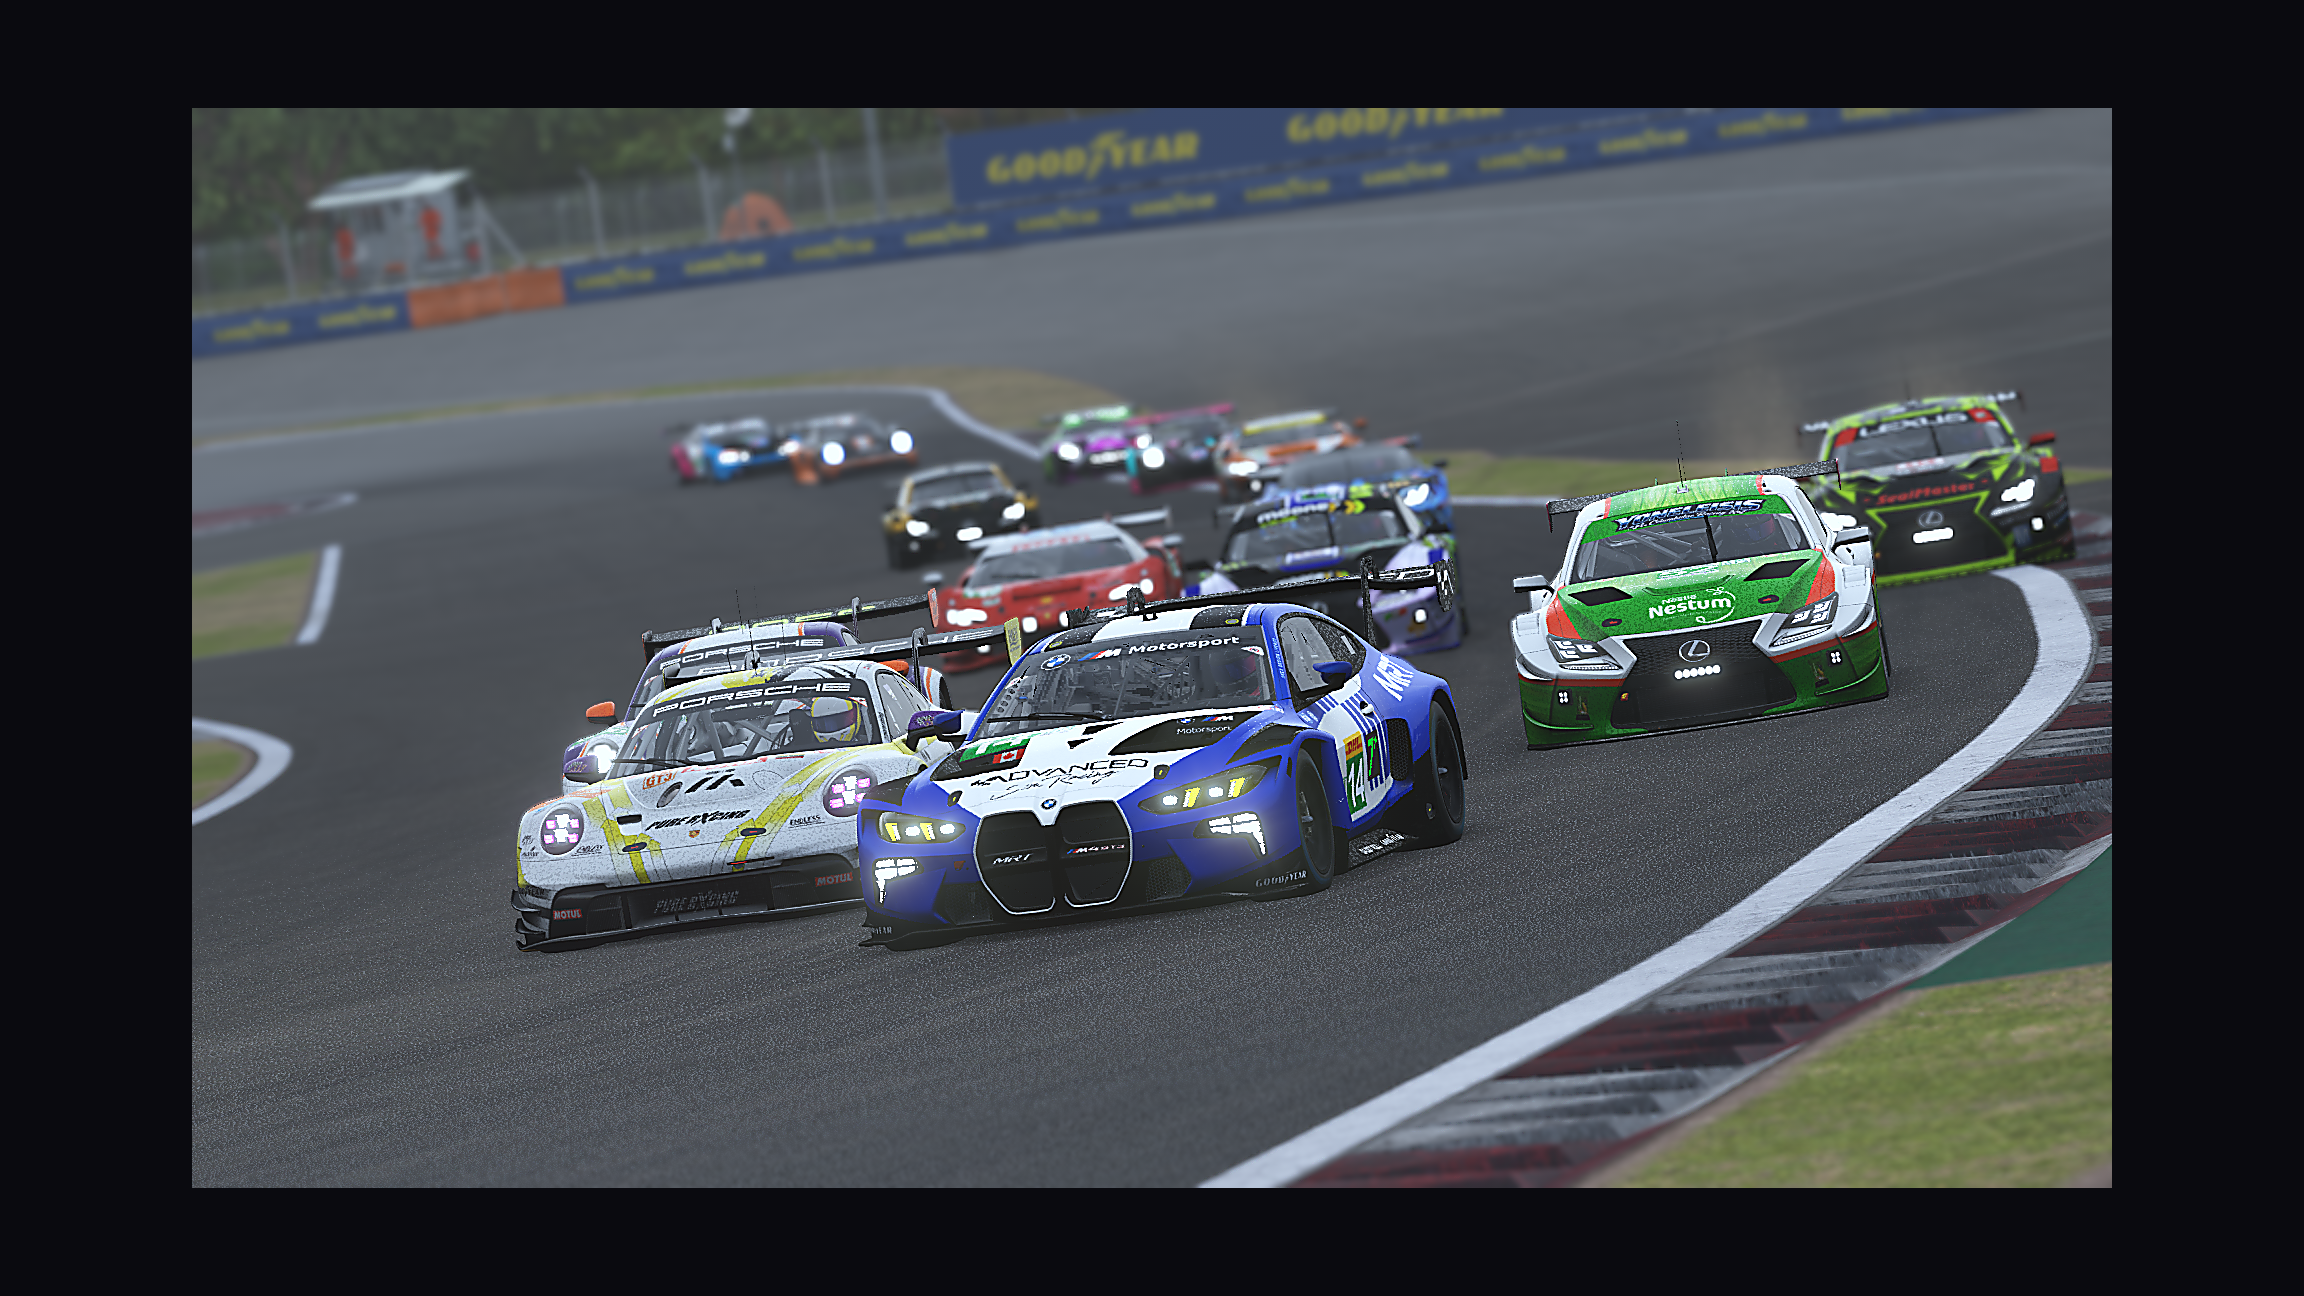
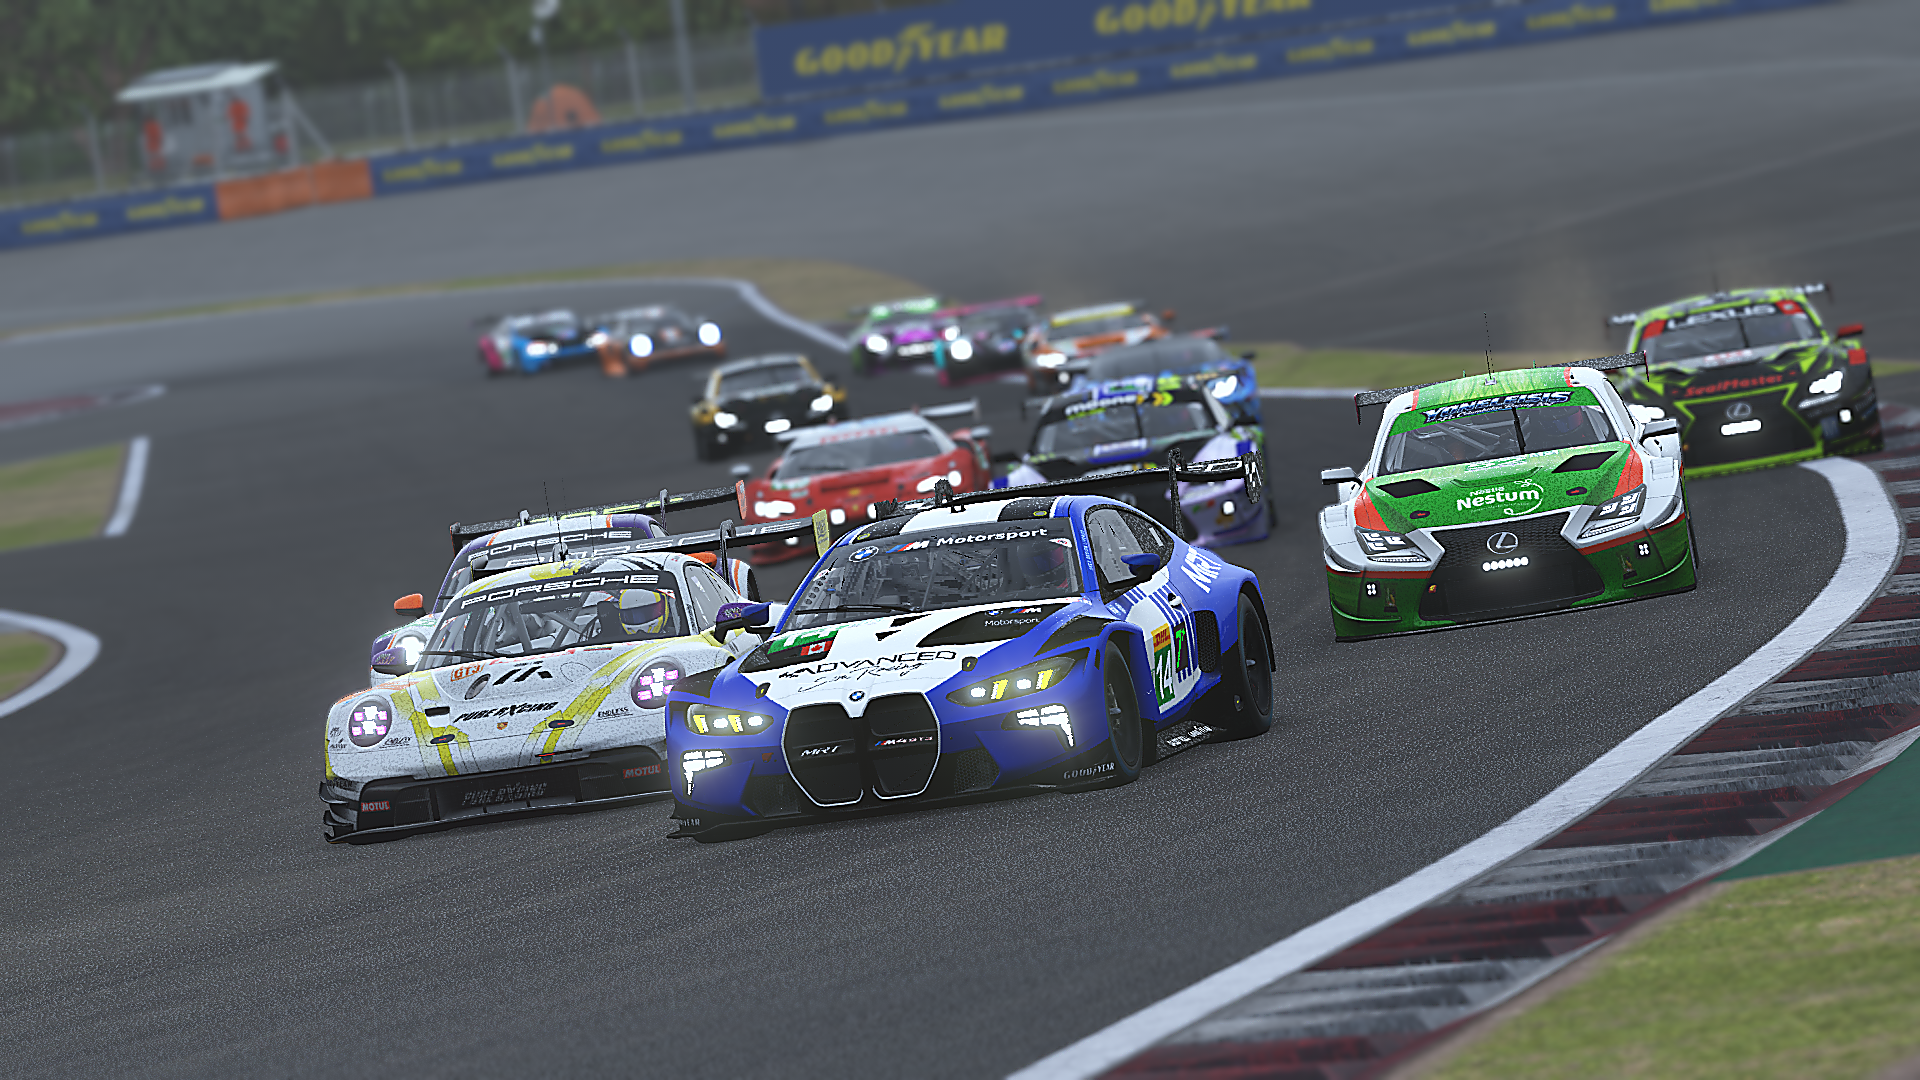
Remove hardcoded image borders, implement CSS background layer with scale (zoom out), translateY (shift down), and radial mask for smooth edge fading

diff --git a/src/components/SeasonLayout.jsx b/src/components/SeasonLayout.jsx
@@ -23,26 +23,49 @@ const SeasonLayout = () => {
     const isSprint = seasonId?.includes('sprint');
     const backgroundImage = isSprint ? sprintBg : multiclassBg;
 
-    // We keep the dynamic background logic here, but delegating layout structure to CSS
     const containerStyle = {
         display: 'flex',
         minHeight: '100vh',
-        background: `url(${backgroundImage}) center/cover fixed no-repeat`,
-        position: 'relative'
+        backgroundColor: '#0a0b10', // Theme dark background
+        position: 'relative',
+        overflowX: 'hidden'
+    };
+
+    const bgLayerStyle = {
+        position: 'fixed',
+        top: 0,
+        left: 0,
+        width: '100%',
+        height: '100%',
+        backgroundImage: `url(${backgroundImage})`,
+        backgroundSize: 'cover',
+        backgroundPosition: 'center',
+        backgroundRepeat: 'no-repeat',
+        // Zoom out (scale 0.88) and move down (translateY 40px)
+        transform: 'scale(0.88) translateY(40px)',
+        // Smoothly fade out the edges to transparent to prevent any black lines/borders
+        maskImage: 'radial-gradient(circle, rgba(0,0,0,1) 45%, rgba(0,0,0,0) 95%)',
+        WebkitMaskImage: 'radial-gradient(circle, rgba(0,0,0,1) 45%, rgba(0,0,0,0) 95%)',
+        zIndex: 0,
+        pointerEvents: 'none'
     };
 
     const overlayStyle = {
-        position: 'absolute',
+        position: 'fixed',
         top: 0,
         left: 0,
         right: 0,
         bottom: 0,
-        background: 'rgba(10, 10, 15, 0.85)', // Dark overlay for readability
-        zIndex: 0
+        background: 'rgba(10, 10, 15, 0.82)', // Dark overlay for readability
+        zIndex: 0,
+        pointerEvents: 'none'
     };
 
     return (
         <div style={containerStyle}>
+            {/* Background Image Layer */}
+            <div style={bgLayerStyle} />
+
             {/* Background Overlay */}
             <div style={overlayStyle} />
 
